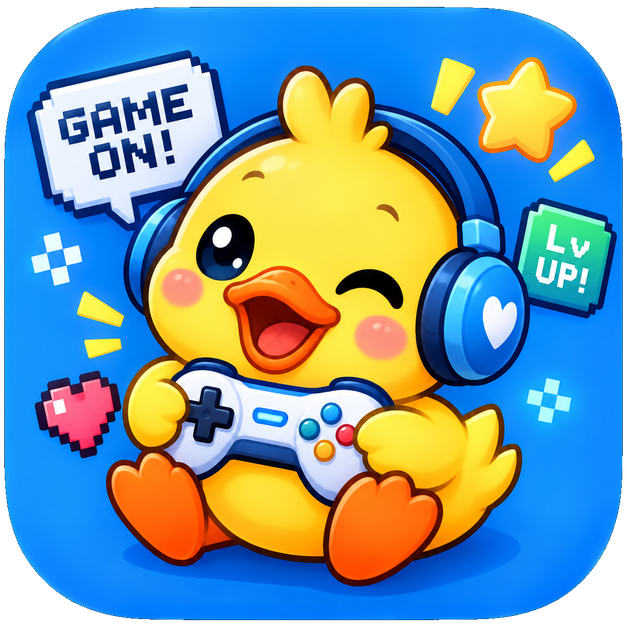
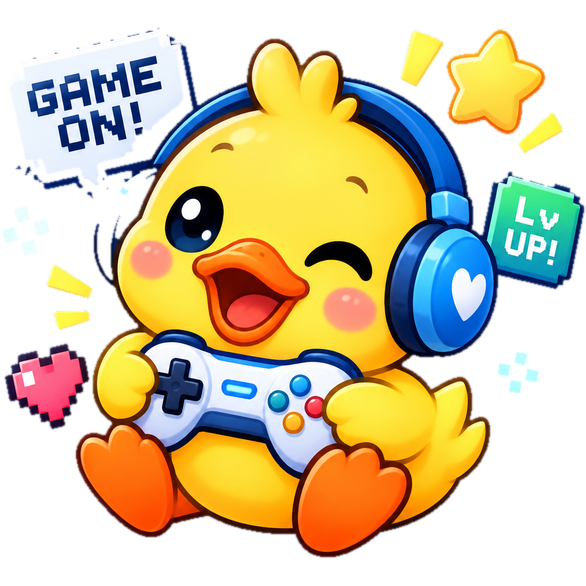
ui: bo o nen xanh cua toan bo linh vat, bo bo goc thua

diff --git a/app/(app)/page.tsx b/app/(app)/page.tsx
@@ -269,7 +269,7 @@ export default async function Home() {
               href="/kiem-tra-dau-vao"
               className="border-border bg-card flex items-center gap-4 rounded-2xl border p-4 press"
             >
-              <Mascot variant="hoc" size={64} className="rounded-xl" />
+              <Mascot variant="hoc" size={64} />
               <span className="min-w-0 flex-1">
                 <span className="block font-semibold">Bắt đầu bằng kiểm tra đầu vào</span>
                 <span className="text-muted block text-sm">
@@ -283,7 +283,7 @@ export default async function Home() {
               href="/hoc"
               className="border-border bg-card flex items-center gap-4 rounded-2xl border p-4 press"
             >
-              <Mascot variant="hoc" size={64} className="rounded-xl" />
+              <Mascot variant="hoc" size={64} />
               <span className="min-w-0 flex-1">
                 <span className="block font-semibold">Chưa có bộ từ nào</span>
                 <span className="text-muted block text-sm">

diff --git a/app/_components/duck-chat.tsx b/app/_components/duck-chat.tsx
@@ -64,7 +64,7 @@ export function DuckChat({ name }: { name: string }) {
           className="border-border bg-bg pop-in fixed right-4 bottom-[calc(5.5rem+env(safe-area-inset-bottom))] z-[60] flex h-[min(32rem,70dvh)] w-[min(24rem,calc(100vw-2rem))] flex-col overflow-hidden rounded-3xl border shadow-2xl shadow-black/20 md:bottom-24"
         >
           <div className="border-border bg-brand-soft/60 flex shrink-0 items-center gap-3 border-b px-4 py-3">
-            <Mascot variant="ai-tron" size={38} className="shrink-0 rounded-xl" />
+            <Mascot variant="ai-tron" size={38} className="shrink-0" />
             <div className="min-w-0 flex-1">
               <p className="text-sm font-bold">Vịt gia sư</p>
               <p className="text-muted text-xs">Luôn sẵn sàng giúp bạn học tiếng Anh</p>

diff --git a/app/quan-tri/layout.tsx b/app/quan-tri/layout.tsx
@@ -37,7 +37,7 @@ export default async function QuanTriLayout({ children }: LayoutProps<"/quan-tri
     <div className="flex min-h-[100dvh] flex-col md:flex-row">
       <aside className="border-border bg-card/70 flex shrink-0 flex-col border-b backdrop-blur-xl md:sticky md:top-0 md:h-[100dvh] md:w-60 md:border-r md:border-b-0">
         <div className="flex items-center gap-3 px-5 pt-5 pb-4">
-          <Mascot variant="tot-nghiep" size={36} className="rounded-xl" />
+          <Mascot variant="tot-nghiep" size={36} />
           <div className="min-w-0">
             <p className="text-sm font-extrabold">DailyEng</p>
             <p className="text-muted text-xs">Khu quản trị</p>

diff --git a/app/(app)/ky-nang/mock-test/part2/part2-session.tsx b/app/(app)/ky-nang/mock-test/part2/part2-session.tsx
@@ -120,7 +120,7 @@ export function Part2Session({ questions, token, seconds, aiEnabled = false }: P
     return (
       <div className="space-y-4 px-5 pt-2">
         <div className="border-border bg-card rounded-2xl border p-6 text-center">
-          <Mascot variant="nghe" size={96} className="mx-auto rounded-2xl" />
+          <Mascot variant="nghe" size={96} className="mx-auto" />
           <p className="mt-3 font-semibold">Nghe câu hỏi, chọn câu đáp lại hợp nhất</p>
           <p className="text-muted mt-2 text-sm leading-relaxed">
             Máy đọc một câu hỏi (hoặc câu nói) rồi ba câu đáp A, B, C. Không có chữ trên

diff --git a/app/gioi-thieu/_components/landing-header.tsx b/app/gioi-thieu/_components/landing-header.tsx
@@ -32,7 +32,7 @@ export async function LandingHeader({ showAnchors = false }: { showAnchors?: boo
     <header className="bg-bg/80 sticky top-0 z-40 backdrop-blur-lg">
       <div className="mx-auto flex max-w-6xl items-center justify-between gap-4 px-5 py-3">
         <Link href="/gioi-thieu" className="flex items-center gap-3">
-          <Mascot variant="tot-nghiep" size={40} className="rounded-xl shadow-md shadow-brand/30" />
+          <Mascot variant="tot-nghiep" size={42} />
           <span className="from-brand bg-gradient-to-r to-emerald-500 bg-clip-text text-xl font-extrabold tracking-tight text-transparent">
             DailyEng
           </span>

diff --git a/app/(app)/kiem-tra-dau-vao/placement-session.tsx b/app/(app)/kiem-tra-dau-vao/placement-session.tsx
@@ -64,7 +64,7 @@ export function PlacementSession({ questions, decks }: Props) {
     return (
       <div className="stagger space-y-4 px-5 pt-2">
         <div className="border-border bg-card flex items-center gap-4 rounded-2xl border p-4">
-          <Mascot variant="hoc" size={80} className="shrink-0 rounded-2xl" />
+          <Mascot variant="hoc" size={80} className="shrink-0" />
           <p className="text-sm leading-relaxed">
             {questions.length} câu chọn nghĩa, từ dễ tới khó. Không biết thì cứ chọn đại — bài này
             để <span className="font-semibold">đo</span>, không tính điểm hay XP.

diff --git a/app/(app)/tro-choi/nghe-go/[deckId]/dictation-session.tsx b/app/(app)/tro-choi/nghe-go/[deckId]/dictation-session.tsx
@@ -112,7 +112,7 @@ export function DictationSession({ words }: { words: DictationWord[] }) {
     return (
       <div className="space-y-4 px-5 pt-2">
         <div className="border-border bg-card rounded-2xl border p-6 text-center">
-          <Mascot variant="nghe" size={128} className="mx-auto rounded-3xl" />
+          <Mascot variant="nghe" size={128} className="mx-auto" />
           <p className="mt-4 font-semibold">Nghe rồi gõ lại từ</p>
           <p className="text-muted mt-2 text-sm leading-relaxed">
             Máy sẽ đọc từng từ tiếng Anh. Bạn gõ đúng chính tả rồi bấm Enter.

diff --git a/app/gioi-thieu/tac-gia/page.tsx b/app/gioi-thieu/tac-gia/page.tsx
@@ -21,7 +21,7 @@ export default function TacGiaPage() {
   return (
     <DocPage title="Tác giả" subtitle="Người làm ra DailyEng và cách liên hệ.">
       <div className="border-border bg-card flex flex-col items-center gap-5 rounded-3xl border p-6 text-center sm:flex-row sm:text-left">
-        <Mascot variant="tot-nghiep" size={112} className="shrink-0 rounded-3xl" />
+        <Mascot variant="tot-nghiep" size={112} className="shrink-0" />
         <div>
           <p className="text-2xl font-extrabold">{SITE.author.name}</p>
           <p className="text-muted mt-1">{SITE.author.role}</p>

diff --git a/app/gioi-thieu/page.tsx b/app/gioi-thieu/page.tsx
@@ -173,7 +173,7 @@ export default async function GioiThieuPage() {
                 href={feature.href}
                 className="border-border bg-card group flex gap-4 rounded-3xl border p-5 press"
               >
-                <Mascot variant={feature.mascot} size={80} className="shrink-0 rounded-2xl" />
+                <Mascot variant={feature.mascot} size={96} className="shrink-0" />
                 <div>
                   <h3 className="text-lg font-bold">{feature.title}</h3>
                   <p className="text-muted mt-1 text-sm leading-relaxed">{feature.text}</p>

diff --git a/app/(app)/ky-nang/mock-test/page.tsx b/app/(app)/ky-nang/mock-test/page.tsx
@@ -83,7 +83,7 @@ export default async function MockTestPage() {
               className="border-border bg-card space-y-4 rounded-3xl border p-4"
             >
               <div className="flex items-center gap-4">
-                <Mascot variant={test.mascot} size={80} className="shrink-0 rounded-2xl" />
+                <Mascot variant={test.mascot} size={80} className="shrink-0" />
                 <div className="min-w-0">
                   <span className="bg-brand-soft text-brand rounded-full px-2 py-0.5 text-[11px] font-bold uppercase">
                     {test.tag}

diff --git a/app/(app)/tro-choi/nghe-hinh/[deckId]/picture-session.tsx b/app/(app)/tro-choi/nghe-hinh/[deckId]/picture-session.tsx
@@ -82,7 +82,7 @@ export function PictureSession({ questions }: { questions: PictureQuestion[] }) 
   if (phase === "intro") {
     return (
       <div className="flex flex-col items-center px-6 py-10 text-center">
-        <Mascot variant="nghe" size={128} priority className="rounded-3xl" />
+        <Mascot variant="nghe" size={128} priority />
         <h2 className="mt-4 text-xl font-bold">{questions.length} từ</h2>
         <p className="text-muted mt-2 max-w-xs text-sm">
           Nghe máy đọc một từ, chạm vào hình đúng trong bốn hình. Không có chữ

diff --git a/app/(app)/ky-nang/chep-cau/[deckId]/sentence-session.tsx b/app/(app)/ky-nang/chep-cau/[deckId]/sentence-session.tsx
@@ -94,7 +94,7 @@ export function SentenceSession({ items }: { items: SentenceItem[] }) {
   if (phase === "intro") {
     return (
       <div className="flex flex-col items-center px-6 py-10 text-center">
-        <Mascot variant="nghe" size={128} priority className="rounded-3xl" />
+        <Mascot variant="nghe" size={128} priority />
         <h2 className="mt-4 text-xl font-bold">{items.length} câu</h2>
         <p className="text-muted mt-2 max-w-xs text-sm">
           Máy đọc cả câu ví dụ, bạn gõ lại. Nghe lại bao nhiêu lần cũng được,
